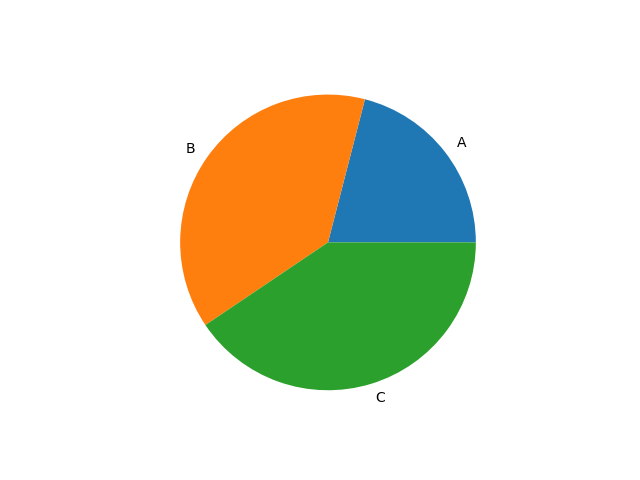
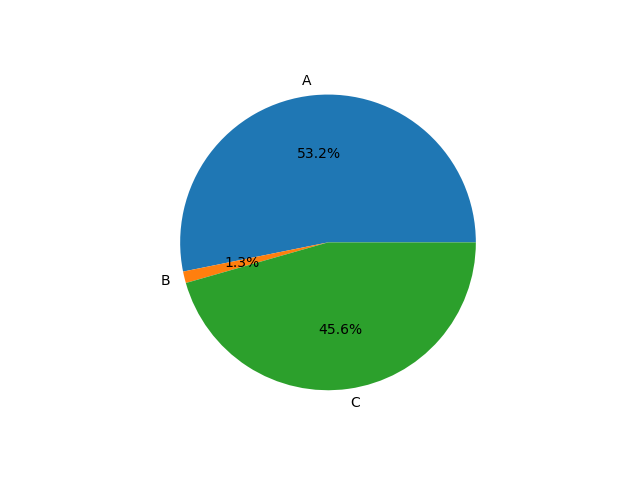
Create percents labels

Changed region(s): [[0.25, 0.1562, 0.5938, 0.6875], [0.5, 0.6562, 0.5625, 0.7188], [0.7188, 0.2812, 0.75, 0.3125]]

diff --git a/charts/charts.py b/charts/charts.py
@@ -17,6 +17,6 @@ def generate_pie_chart():
     values = [var_1, var_2, var_3]
 
     fig, ax = plt.subplots()
-    ax.pie(values, labels = labels)
+    ax.pie(values, labels = labels, autopct='%1.1f%%')
     plt.savefig('pie.png')
     plt.close()
